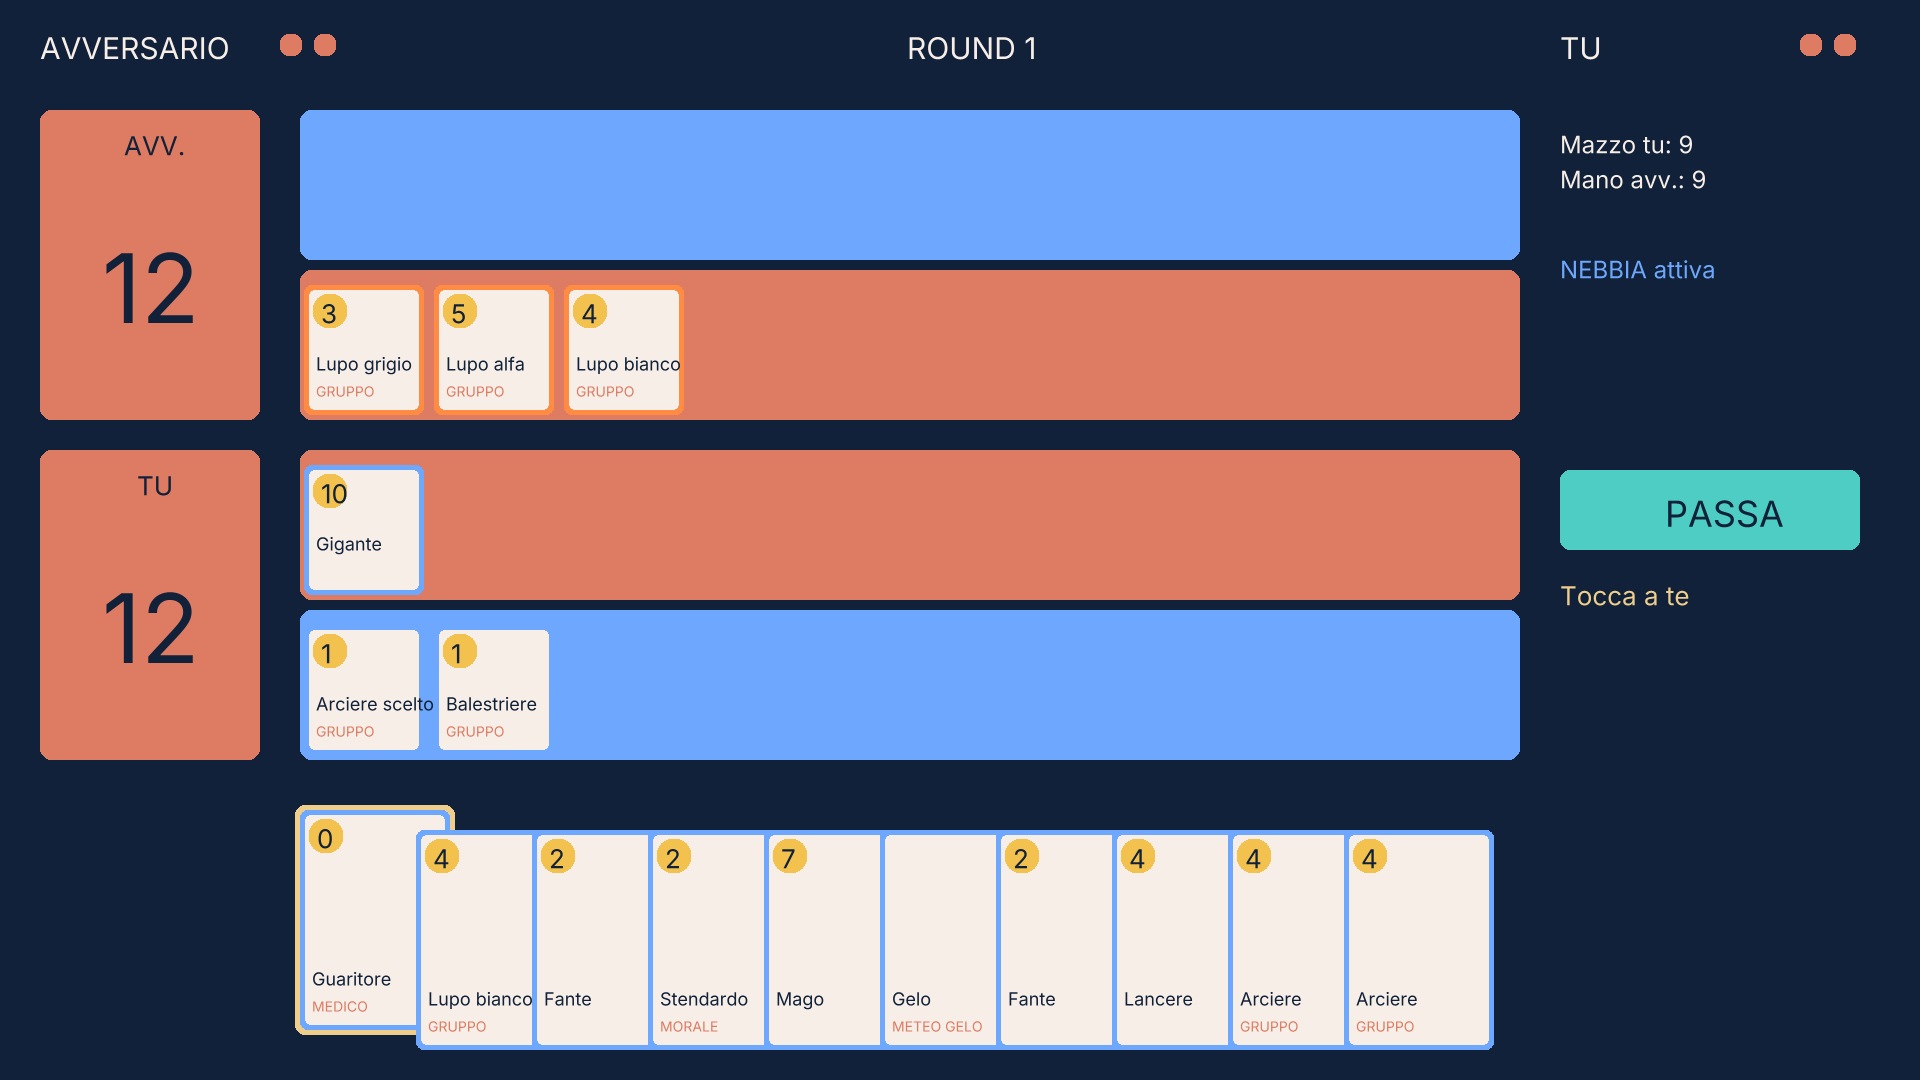
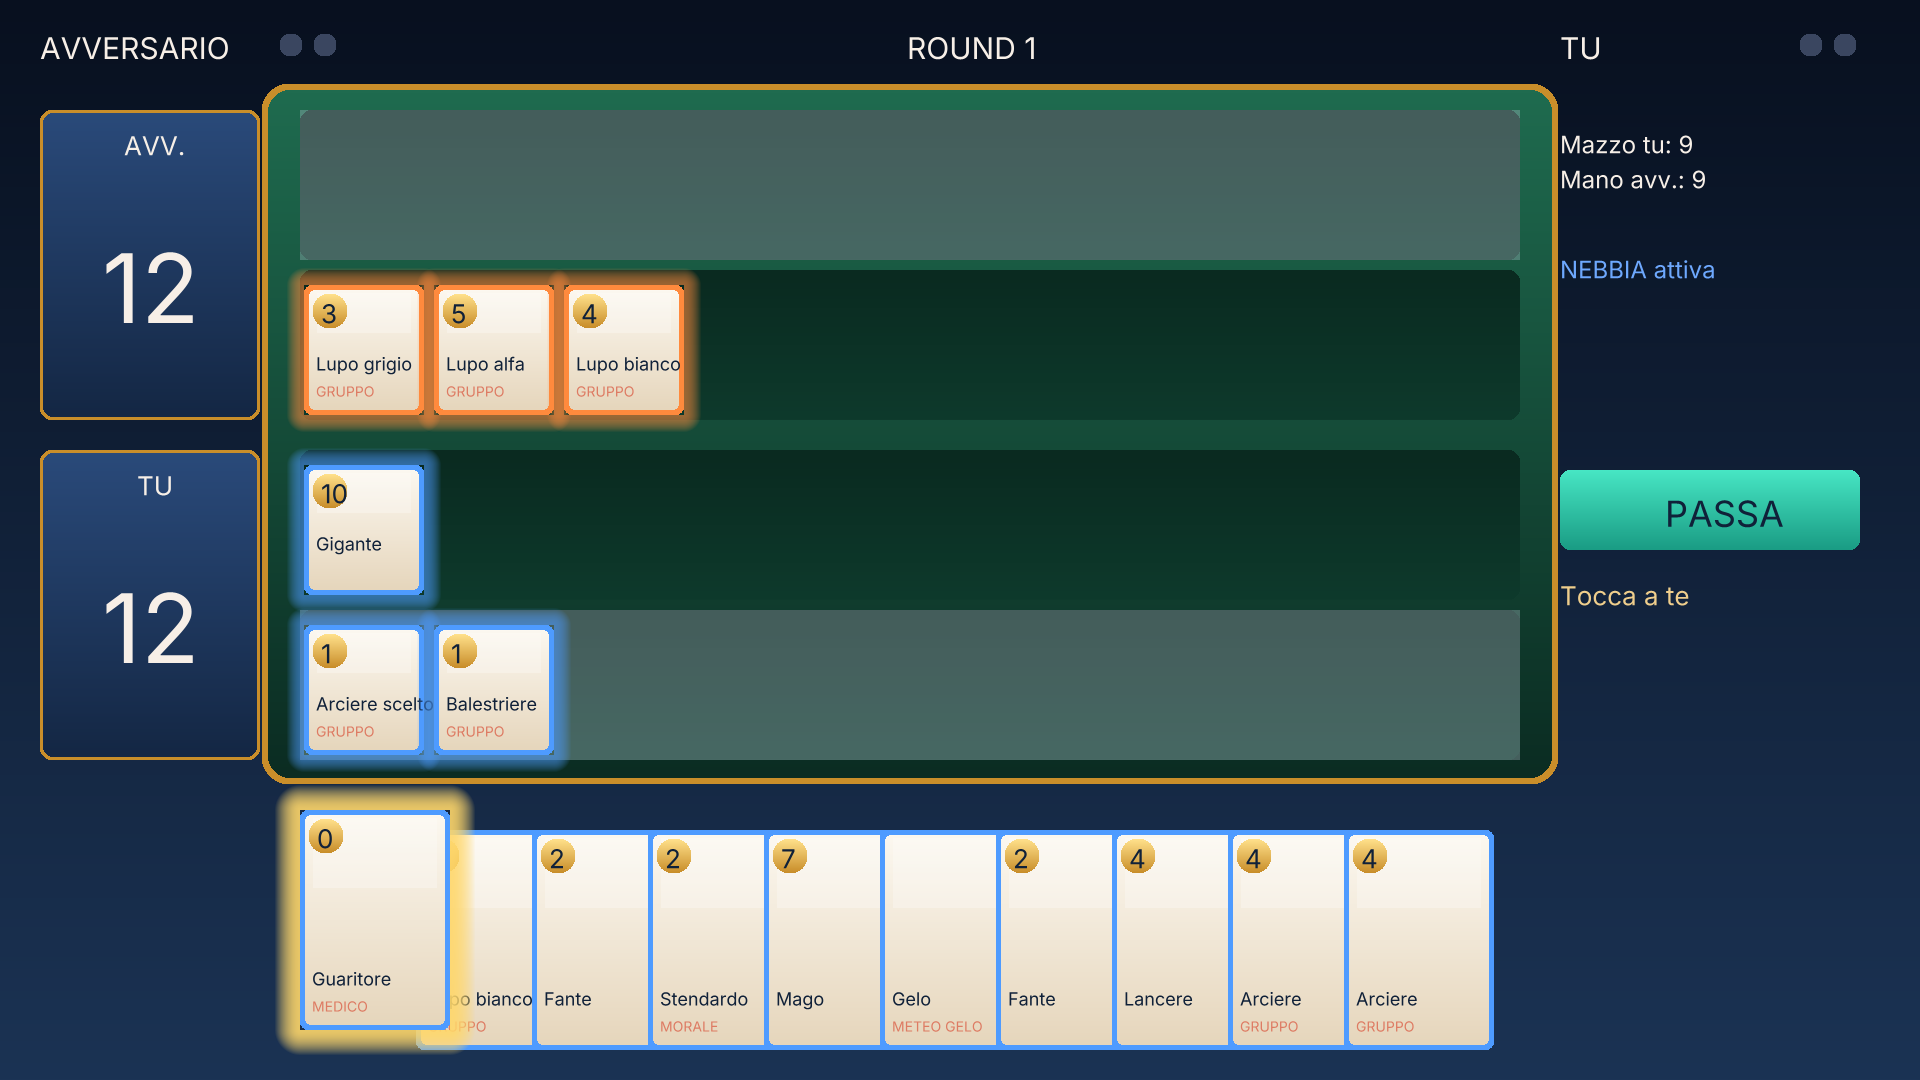
Gwent: gradient scene, felt table and glow effects on cards
- Sky gradient background; felt table with gold edge.
- Played cards glow in the owner's colour; selected hand card glows gold.
- Paper-gradient card faces with a gloss band; gold power medallions.
- Weather tints the affected row (frost, fog).
- Hand draws the selected card last so it sits on top.
- Layout, hit-testing and rules unchanged; 9 core tests and 2 mouse tests pass.
- Screenshots regenerated at 1920x1080 and 800x480.

Claude-Session: https://claude.ai/code/session_01AVhvvNfLQdwRTWxN4gAk1D

diff --git a/games/gwent/src/view.rs b/games/gwent/src/view.rs
@@ -1,5 +1,6 @@
-//! Disegno (solo host, std). Il tabellone è in coordinate di progetto 1920×1080, scalato con la stessa
-//! proporzione in ogni schermo (letterbox). Usa il trait `Canvas` di `haiku-gui`. Testo solo ASCII.
+//! Disegno (solo host, std). Tabellone in coordinate di progetto 1920×1080, scalato con la stessa
+//! proporzione in ogni schermo (letterbox). Primitive vettoriali di `haiku-gui` più sfumature, bagliori
+//! e velature calcolati per pixel (nessun bitmap). Testo solo ASCII.
 
 use gwent::cards::{Kind, DEFS};
 use gwent::Game;
@@ -49,18 +50,98 @@ pub fn hit(x: i32, y: i32, hand_len: usize) -> Option<Hit> {
     (0..hand_len).rev().find(|&i| inside(hand_rect(i, hand_len), x, y)).map(Hit::Card)
 }
 
-/// Fotogramma `w`×`h` pixel, formato 0x00RRGGBB (lo stesso di minifb).
+// Palette della scena (0xRRGGBB).
+const SKY_TOP: u32 = 0x08101F;
+const SKY_BOT: u32 = 0x1B3354;
+const FELT_TOP: u32 = 0x1F6B4F;
+const FELT_BOT: u32 = 0x0B2C22;
+const ROW_TOP: u32 = 0x0A2A20;
+const ROW_BOT: u32 = 0x0E3A2C;
+const GOLD_TOP: u32 = 0xFFE08A;
+const GOLD_BOT: u32 = 0xC98E2A;
+const PAPER_TOP: u32 = 0xFCF8F0;
+const PAPER_BOT: u32 = 0xE6D6BC;
+const PL: u32 = 0x4E9BFF;
+const AI: u32 = 0xFF8A3D;
+const FROST: u32 = 0x9FD8FF;
+const FOG: u32 = 0xC4CEDD;
+const GLOW_GOLD: u32 = 0xFFD76A;
+const BTN_TOP: u32 = 0x47E6C4;
+const BTN_BOT: u32 = 0x1A9C84;
+const BTN_OFF: u32 = 0x4A5368;
+
+/// Interpolazione lineare di due colori, `t` in 0..=255.
+fn lerp(a: u32, b: u32, t: u32) -> u32 {
+    let ch = |s: u32| {
+        let (x, y) = ((a >> s) & 255, (b >> s) & 255);
+        ((x * (255 - t) + y * t) / 255) << s
+    };
+    ch(16) | ch(8) | ch(0)
+}
+
+/// Mescola `src` su `dst` con copertura `a` (0..=255).
+fn mix(dst: u32, src: u32, a: u32) -> u32 {
+    let ch = |s: u32| {
+        let (d, c) = ((dst >> s) & 255, (src >> s) & 255);
+        ((d * (255 - a) + c * a) / 255) << s
+    };
+    ch(16) | ch(8) | ch(0)
+}
+
+/// Fotogramma RGB, `w`×`h` pixel, formato 0x00RRGGBB (lo stesso di minifb).
 pub struct Img {
     pub w: usize,
     pub h: usize,
     pub px: Vec<u32>,
 }
 
-fn rgb(t: Tok) -> u32 {
-    t.rgb()
-}
-
 impl Img {
+    /// Rettangolo arrotondato con sfumatura verticale da `c0` (in alto) a `c1` (in basso). `rad` 0 = rettangolo.
+    fn rr_grad(&mut self, r: Rect, rad: i32, c0: u32, c1: u32) {
+        let rad = rad.min(r.w / 2).min(r.h / 2).max(0);
+        let (x0, x1) = (r.x.max(0), (r.x + r.w).min(self.w as i32));
+        let (y0, y1) = (r.y.max(0), (r.y + r.h).min(self.h as i32));
+        for y in y0..y1 {
+            let c = lerp(c0, c1, ((y - r.y) * 255 / (r.h - 1).max(1)) as u32);
+            for x in x0..x1 {
+                let (dx, dy) = (x - r.x, y - r.y);
+                let ox = if dx < rad { rad - 1 - dx } else if dx >= r.w - rad { dx - (r.w - rad) } else { 0 };
+                let oy = if dy < rad { rad - 1 - dy } else if dy >= r.h - rad { dy - (r.h - rad) } else { 0 };
+                if ox * ox + oy * oy < rad * rad || (ox == 0 && oy == 0) {
+                    self.px[y as usize * self.w + x as usize] = c;
+                }
+            }
+        }
+    }
+
+    /// Velatura `c` di copertura `a` su tutto il rettangolo.
+    fn tint(&mut self, r: Rect, a: u32, c: u32) {
+        for y in r.y.max(0)..(r.y + r.h).min(self.h as i32) {
+            for x in r.x.max(0)..(r.x + r.w).min(self.w as i32) {
+                let i = y as usize * self.w + x as usize;
+                self.px[i] = mix(self.px[i], c, a);
+            }
+        }
+    }
+
+    /// Alone attorno al rettangolo: `amax` al bordo, che svanisce su `spread` pixel con caduta quadratica.
+    fn glow(&mut self, r: Rect, spread: i32, c: u32, amax: u32) {
+        let s2 = spread * spread;
+        for y in (r.y - spread).max(0)..(r.y + r.h + spread).min(self.h as i32) {
+            for x in (r.x - spread).max(0)..(r.x + r.w + spread).min(self.w as i32) {
+                let dx = (r.x - x).max(x - (r.x + r.w - 1)).max(0);
+                let dy = (r.y - y).max(y - (r.y + r.h - 1)).max(0);
+                let d2 = dx * dx + dy * dy;
+                if d2 == 0 || d2 >= s2 {
+                    continue;
+                }
+                let a = amax * (s2 - d2) as u32 / s2 as u32;
+                let i = y as usize * self.w + x as usize;
+                self.px[i] = mix(self.px[i], c, a);
+            }
+        }
+    }
+
     /// PPM P6 a dimensioni native.
     pub fn write_ppm(&self, out: &mut impl std::io::Write) -> std::io::Result<()> {
         write!(out, "P6\n{} {}\n255\n", self.w, self.h)?;
@@ -73,12 +154,7 @@ impl Img {
 
 impl Canvas for Img {
     fn fill(&mut self, r: Rect, t: Tok) {
-        let c = rgb(t);
-        for y in r.y.max(0)..(r.y + r.h).min(self.h as i32) {
-            for x in r.x.max(0)..(r.x + r.w).min(self.w as i32) {
-                self.px[y as usize * self.w + x as usize] = c;
-            }
-        }
+        self.rr_grad(r, 0, t.rgb(), t.rgb());
     }
 
     fn text(&mut self, x: i32, y: i32, s: &str, t: Tok) {
@@ -86,32 +162,15 @@ impl Canvas for Img {
     }
 
     fn rect_rounded(&mut self, r: Rect, radius: i32, t: Tok) {
-        let c = rgb(t);
-        let rad = radius.min(r.w / 2).min(r.h / 2).max(0);
-        for y in r.y.max(0)..(r.y + r.h).min(self.h as i32) {
-            for x in r.x.max(0)..(r.x + r.w).min(self.w as i32) {
-                let (dx, dy) = (x - r.x, y - r.y);
-                let ox = if dx < rad { rad - 1 - dx } else if dx >= r.w - rad { dx - (r.w - rad) } else { 0 };
-                let oy = if dy < rad { rad - 1 - dy } else if dy >= r.h - rad { dy - (r.h - rad) } else { 0 };
-                if ox * ox + oy * oy < rad * rad || (ox == 0 && oy == 0) {
-                    self.px[y as usize * self.w + x as usize] = c;
-                }
-            }
-        }
+        self.rr_grad(r, radius, t.rgb(), t.rgb());
     }
 
     fn blend(&mut self, x: i32, y: i32, a: u8, t: Tok) {
         if x < 0 || y < 0 || x as usize >= self.w || y as usize >= self.h {
             return;
         }
-        let d = rgb(t);
         let i = y as usize * self.w + x as usize;
-        let s = self.px[i];
-        let mix = |sh: u32| {
-            let (s0, d0, a) = ((s >> sh) & 255, (d >> sh) & 255, a as u32);
-            ((s0 * (255 - a) + d0 * a) / 255) << sh
-        };
-        self.px[i] = mix(16) | mix(8) | mix(0);
+        self.px[i] = mix(self.px[i], t.rgb(), a as u32);
     }
 }
 
@@ -141,14 +200,36 @@ impl Pane {
         Rect::new(self.ox + s(r.x), self.oy + s(r.y), s(r.w), s(r.h))
     }
 
-    fn fill(&mut self, r: Rect, t: Tok) {
-        let d = self.d(r);
-        self.im.fill(d, t);
+    fn s(&self, v: i32) -> i32 {
+        (v as f32 * self.k) as i32
     }
 
-    fn rr(&mut self, r: Rect, rad: i32, t: Tok) {
+    /// Rettangolo arrotondato con sfumatura da `c0` a `c1`.
+    fn rr(&mut self, r: Rect, rad: i32, c0: u32, c1: u32) {
         let d = self.d(r);
-        self.im.rect_rounded(d, (rad as f32 * self.k) as i32, t);
+        let rad = self.s(rad);
+        self.im.rr_grad(d, rad, c0, c1);
+    }
+
+    /// Rettangolo arrotondato di tinta piatta.
+    fn rr_flat(&mut self, r: Rect, rad: i32, c: u32) {
+        self.rr(r, rad, c, c);
+    }
+
+    fn grad(&mut self, r: Rect, c0: u32, c1: u32) {
+        let d = self.d(r);
+        self.im.rr_grad(d, 0, c0, c1);
+    }
+
+    fn tint(&mut self, r: Rect, a: u32, c: u32) {
+        let d = self.d(r);
+        self.im.tint(d, a, c);
+    }
+
+    fn glow(&mut self, r: Rect, spread: i32, c: u32, amax: u32) {
+        let d = self.d(r);
+        let sp = self.s(spread);
+        self.im.glow(d, sp, c, amax);
     }
 
     /// Testo con angolo in alto a sinistra; `size` in unità di progetto (em).
@@ -165,8 +246,8 @@ impl Pane {
     }
 }
 
-fn accent(owner: usize) -> Tok {
-    if owner == 0 { Tok::A(4) } else { Tok::A(3) }
+fn owner_color(owner: usize) -> u32 {
+    if owner == 0 { PL } else { AI }
 }
 
 fn tag(id: usize) -> &'static str {
@@ -183,17 +264,23 @@ fn tag(id: usize) -> &'static str {
     }
 }
 
-/// Una carta: cornice del colore del proprietario, potenza in alto a sinistra, nome e tipo in basso.
-fn card(p: &mut Pane, r: Rect, id: usize, owner: usize, power: i32, sel: bool) {
-    if sel {
-        p.rr(Rect::new(r.x - 5, r.y - 5, r.w + 10, r.h + 10), 12, Tok::T3);
+/// Una carta: cornice del colore del proprietario, carta a sfumatura con riflesso in alto,
+/// potenza in medaglione dorato, nome e tipo. `played` accende l'alone del proprietario.
+fn card(p: &mut Pane, r: Rect, id: usize, owner: usize, power: i32, sel: bool, played: bool) {
+    if played {
+        p.glow(r, 18, owner_color(owner), 150);
     }
-    p.rr(r, 10, accent(owner));
-    p.rr(Rect::new(r.x + 5, r.y + 5, r.w - 10, r.h - 10), 8, Tok::T1);
+    if sel {
+        p.glow(r, 26, GLOW_GOLD, 230);
+    }
+    p.rr_flat(r, 10, owner_color(owner));
+    let inner = Rect::new(r.x + 5, r.y + 5, r.w - 10, r.h - 10);
+    p.rr(inner, 8, PAPER_TOP, PAPER_BOT);
+    p.tint(Rect::new(inner.x + 8, inner.y + 3, inner.w - 16, inner.h / 3), 70, 0xFFFFFF);
     let d = DEFS[id];
     let weather = matches!(d.kind, Kind::Frost | Kind::Fog | Kind::Clear);
     if !weather {
-        p.rr(Rect::new(r.x + 9, r.y + 9, 34, 34), 17, Tok::A(1));
+        p.rr(Rect::new(r.x + 9, r.y + 9, 34, 34), 17, GOLD_TOP, GOLD_BOT);
         let s = format!("{power}");
         p.txt(r.x + 17, r.y + 13, 26, &s, Tok::T0);
     }
@@ -201,10 +288,12 @@ fn card(p: &mut Pane, r: Rect, id: usize, owner: usize, power: i32, sel: bool) {
     p.txt(r.x + 12, r.y + r.h - 32, 14, tag(id), Tok::T2);
 }
 
-/// Tabellone e pannelli in `p` (riusato tra i fotogrammi). `cur` è la carta selezionata, `msg` la riga di stato.
+/// Tabellone, mano e pannelli in `p` (riusato tra i fotogrammi). `cur` è la carta selezionata, `msg` la riga di stato.
 pub fn frame_into(p: &mut Pane, g: &Game, cur: usize, msg: &str) {
-    p.im.px.fill(rgb(Tok::T0));
-    p.fill(Rect::new(0, 0, DW, DH), Tok::T0);
+    // Sfondo a sfumatura e tavolo di feltro con bordo d'oro.
+    p.grad(Rect::new(0, 0, DW, DH), SKY_TOP, SKY_BOT);
+    p.rr_flat(Rect::new(262, 84, 1296, 700), 28, GOLD_BOT);
+    p.rr(Rect::new(268, 90, 1284, 688), 24, FELT_TOP, FELT_BOT);
 
     // Intestazione: avversario a sinistra, tu a destra, round al centro.
     p.txt(40, 30, 30, "AVVERSARIO", Tok::T1);
@@ -214,16 +303,21 @@ pub fn frame_into(p: &mut Pane, g: &Game, cur: usize, msg: &str) {
     for (b, x0) in [(1usize, 40), (0, 1560)] {
         for i in 0..2 {
             let r = Rect::new(x0 + 240 + i * 34, 34, 22, 22);
-            p.rr(r, 11, if (i as u8) < g.side[b].wins { Tok::A(3) } else { Tok::T2 });
+            let c = if (i as u8) < g.side[b].wins { owner_color(b) } else { 0x3A4660 };
+            p.rr_flat(r, 11, c);
         }
     }
 
-    // Tabellone: per ogni fila colore di sfondo e carte; la fila colpita dal meteo cambia colore.
+    // File: sfondo scuro, velatura del meteo, carte con alone.
     for board in 0..2 {
         for row in 0..2 {
-            let affected = (row == 0 && g.frost) || (row == 1 && g.fog);
             let rr = row_rect(board, row);
-            p.rr(rr, 14, if affected { Tok::A(4) } else { Tok::T2 });
+            p.rr(rr, 14, ROW_TOP, ROW_BOT);
+            let affected = (row == 0 && g.frost) || (row == 1 && g.fog);
+            if affected {
+                let c = if row == 0 { FROST } else { FOG };
+                p.tint(rr, 80, c);
+            }
             let slots = g.side[board].rows[row];
             let n = slots.n as usize;
             let pitch = if n <= 1 { 130 } else { (1100 / (n as i32 - 1)).min(130) };
@@ -233,23 +327,28 @@ pub fn frame_into(p: &mut Pane, g: &Game, cur: usize, msg: &str) {
                 let id = (slot & 0x7f) as usize;
                 let power = g.slot_power(board, row, i);
                 let cr = Rect::new(rr.x + 4 + i as i32 * pitch, rr.y + 15, 120, 130);
-                card(p, cr, id, owner, power, false);
+                card(p, cr, id, owner, power, false, true);
             }
         }
     }
 
     // Punteggi per tabellone (sinistra).
     for (board, y) in [(1usize, 110), (0, 450)] {
-        p.rr(Rect::new(40, y, 220, 310), 14, Tok::T2);
+        p.rr_flat(Rect::new(40, y, 220, 310), 14, GOLD_BOT);
+        p.rr(Rect::new(43, y + 3, 214, 304), 12, 0x2A4A7A, 0x142744);
         let label = if board == 0 { "TU" } else { "AVV." };
-        p.txt_c(Rect::new(40, 0, 220, 0), y + 20, 26, label, Tok::T0);
+        p.txt_c(Rect::new(40, 0, 220, 0), y + 20, 26, label, Tok::T1);
         let s = format!("{}", g.score(board));
-        p.txt_c(Rect::new(40, 0, 220, 0), y + 120, 96, &s, Tok::T0);
+        p.txt_c(Rect::new(40, 0, 220, 0), y + 120, 96, &s, Tok::T1);
     }
 
-    // Mano: la carta selezionata si alza.
+    // Mano: la carta selezionata si alza e viene disegnata per ultima, sopra le altre.
     let n = g.side[0].hand.n as usize;
-    for i in 0..n {
+    let mut order: Vec<usize> = (0..n).filter(|&i| i != cur).collect();
+    if cur < n {
+        order.push(cur);
+    }
+    for i in order {
         let id = g.side[0].hand.c[i] as usize;
         let mut r = hand_rect(i, n);
         let sel = i == cur;
@@ -257,7 +356,7 @@ pub fn frame_into(p: &mut Pane, g: &Game, cur: usize, msg: &str) {
             r.y -= 20;
         }
         let power = DEFS[id].power as i32;
-        card(p, r, id, 0, power, sel);
+        card(p, r, id, 0, power, sel, false);
     }
 
     // Pannello di destra: stato, meteo, pulsante.
@@ -266,8 +365,12 @@ pub fn frame_into(p: &mut Pane, g: &Game, cur: usize, msg: &str) {
     p.txt(1560, 220, 24, if g.frost { "GELO attivo" } else { "" }, Tok::A(4));
     p.txt(1560, 255, 24, if g.fog { "NEBBIA attiva" } else { "" }, Tok::A(4));
     let yours = g.turn == 0 && g.over.is_none();
-    let (bg, label) = if yours { (Tok::A(2), "PASSA") } else { (Tok::T2, "...") };
-    p.rr(PASS, 12, bg);
+    let label = if yours { "PASSA" } else { "..." };
+    if yours {
+        p.rr(PASS, 12, BTN_TOP, BTN_BOT);
+    } else {
+        p.rr_flat(PASS, 12, BTN_OFF);
+    }
     p.txt_c(PASS, PASS.y + 22, 36, label, Tok::T0);
     p.txt(1560, 580, 26, if yours { "Tocca a te" } else { "Turno avversario" }, Tok::T3);
     p.txt(1560, 630, 24, msg, Tok::T1);
